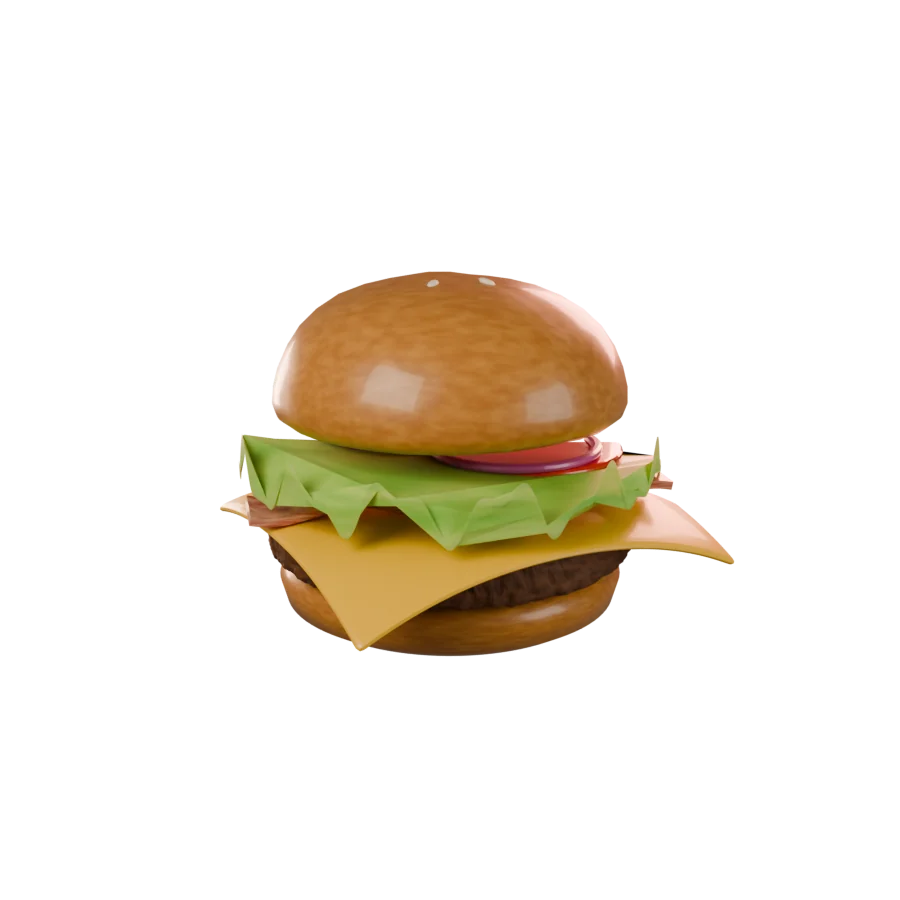
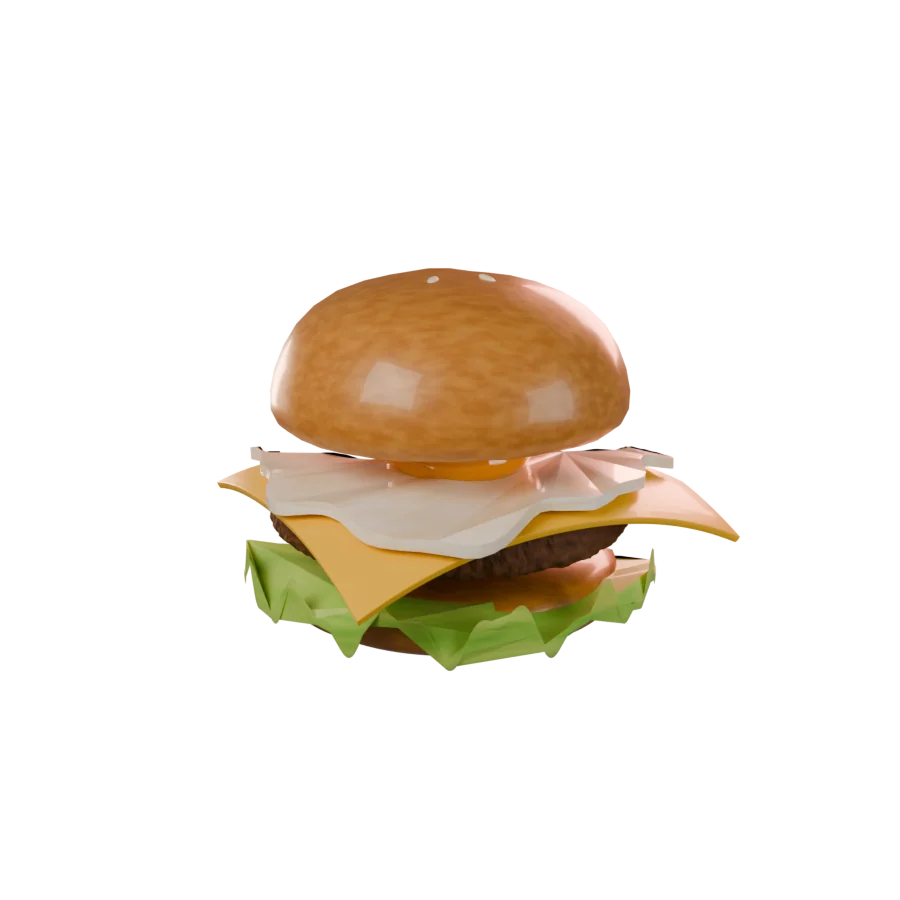
Cultura: the burger now matches theirs, with a fried egg
Rebuilt in Blender from their Instagram burger: handmade bun, fresh lettuce, 160g patty, melted cheese, a fried egg with a runny yolk, and a sesame bun. Bacon, tomato and onion are gone. The labels, layer spacing and step 4 (now The fried egg) follow the new layers in English and Portuguese.

Claude-Session: https://claude.ai/code/session_01LD4HJSaje7DgJNDvNHRX3H

Changed region(s): [[0.2489, 0.28, 0.84, 0.7467], [0.3111, 0.3422, 0.3422, 0.4356], [0.3422, 0.3111, 0.4044, 0.3422]]

diff --git a/cultura/index.html b/cultura/index.html
@@ -155,22 +155,18 @@ footer .wrap{display:flex;justify-content:space-between;flex-wrap:wrap;gap:12px}
       <div class="stage" id="stage" aria-hidden="true">
         <i class="shade"></i>
         <img class="ly" data-ly="bun_bottom" src="img/c/L_bun_bottom.webp" alt="">
+        <img class="ly" data-ly="lettuce" src="img/c/L_lettuce.webp" alt="">
         <img class="ly" data-ly="patty" src="img/c/L_patty.webp" alt="">
         <img class="ly" data-ly="cheese" src="img/c/L_cheese.webp" alt="">
-        <img class="ly" data-ly="bacon" src="img/c/L_bacon.webp" alt="">
-        <img class="ly" data-ly="tomato" src="img/c/L_tomato.webp" alt="">
-        <img class="ly" data-ly="onion" src="img/c/L_onion.webp" alt="">
-        <img class="ly" data-ly="lettuce" src="img/c/L_lettuce.webp" alt="">
+        <img class="ly" data-ly="egg" src="img/c/L_egg.webp" alt="">
         <img class="ly" data-ly="bun_top" src="img/c/L_bun_top.webp" alt="">
         <img class="ly whole" id="back" src="img/c/back.webp" alt="">
         <img class="ly whole" id="front" src="img/c/front.webp" alt="">
-        <span class="lbl" data-for="bun_top" data-i="g8">Handmade bun</span>
-        <span class="lbl l" data-for="lettuce" data-i="g7">Fresh lettuce</span>
-        <span class="lbl" data-for="onion" data-i="g6">Red onion</span>
-        <span class="lbl l" data-for="tomato" data-i="g5">Tomato</span>
-        <span class="lbl" data-for="bacon" data-i="g4">Crispy bacon</span>
-        <span class="lbl l" data-for="cheese" data-i="g3">Cheddar</span>
-        <span class="lbl" data-for="patty" data-i="g2">160g premium beef</span>
+        <span class="lbl" data-for="bun_top" data-i="g8">Sesame bun</span>
+        <span class="lbl l" data-for="egg" data-i="g4">Fried egg</span>
+        <span class="lbl" data-for="cheese" data-i="g3">Melted cheese</span>
+        <span class="lbl l" data-for="patty" data-i="g2">160g premium beef</span>
+        <span class="lbl" data-for="lettuce" data-i="g7">Fresh lettuce</span>
         <span class="lbl l" data-for="bun_bottom" data-i="g1">Handmade bun</span>
       </div>
 
@@ -201,7 +197,7 @@ footer .wrap{display:flex;justify-content:space-between;flex-wrap:wrap;gap:12px}
         </div>
 
         <div class="step" data-s="3">
-          <p class="k">🥬 <span data-i="s4k">Step 4 · The good stuff</span></p>
+          <p class="k">🍳 <span data-i="s4k">Step 4 · The fried egg</span></p>
           <h2 data-i="s4">Who's the table for?</h2>
           <label class="field"><span data-i="name">Your name</span><input id="name" autocomplete="name" maxlength="40"></label>
           <p class="k" style="margin:4px 0 8px;color:var(--ink)" data-i="occ">Anything to celebrate? (optional)</p>
@@ -271,18 +267,18 @@ $$('.rv').forEach(el => io.observe(el));
 /* words */
 const T = {
   en: { nav1: 'Book', nav2: 'Why us', nav3: 'Find us', rev: '· 6,000+ reviews', h1: 'Look inside. <em>Book your table.</em>', lead: 'Five taps and your table for tonight is ready, in the heart of Bairro Alto. Meanwhile, take a look inside what you are coming for.',
-    s1k: 'Step 1 · The bottom bun', s1: 'How many are coming?', s2k: 'Step 2 · 160g of beef', s2: 'Which day?', s3k: 'Step 3 · Melt the cheese', s3: 'What time?', s4k: 'Step 4 · The good stuff', s4: "Who's the table for?", name: 'Your name', occ: 'Anything to celebrate? (optional)', s5k: 'Step 5 · Close it up', s5: 'Your table is ready to order.',
+    s1k: 'Step 1 · The bottom bun', s1: 'How many are coming?', s2k: 'Step 2 · 160g of beef', s2: 'Which day?', s3k: 'Step 3 · Melt the cheese', s3: 'What time?', s4: "Who's the table for?", name: 'Your name', occ: 'Anything to celebrate? (optional)', s5k: 'Step 5 · Close it up', s5: 'Your table is ready to order.',
     next: 'Add the layer', back: '← Back', call: 'Call to confirm · 213 462 322', copy: 'Copy details', copied: 'Copied!', again: 'Start again', note: "Read us your ticket on the phone and we'll confirm the table. We're open every day until midnight.",
     lunch: 'Lunch', dinner: 'Dinner', late: 'Late', today: 'Today', tomorrow: 'Tomorrow', people: n => n === 1 ? '1 person' : n + ' people', group: 'Big group',
-    occs: ['Birthday 🎂', 'Date night ❤', 'Friends 🍻', 'Work 💼', 'First time in Lisbon ✈'], tk: 'Table ticket', tName: 'Name', tPeople: 'Guests', tDay: 'Day', tTime: 'Time', tOcc: 'Occasion', tTotal: 'Burgers to build', g1: 'Handmade bun', g2: '160g premium beef', g3: 'Cheddar', g4: 'Crispy bacon', g5: 'Tomato', g6: 'Red onion', g7: 'Fresh lettuce', g8: 'Handmade sesame bun',
+    occs: ['Birthday 🎂', 'Date night ❤', 'Friends 🍻', 'Work 💼', 'First time in Lisbon ✈'], tk: 'Table ticket', tName: 'Name', tPeople: 'Guests', tDay: 'Day', tTime: 'Time', tOcc: 'Occasion', tTotal: 'Burgers to build', g1: 'Handmade bun', g2: '160g premium beef', g3: 'Melted cheese', g4: 'Fried egg', g7: 'Fresh lettuce', g8: 'Sesame bun', s4k: 'Step 4 · The fried egg',
     fName: 'Name', fGuests: 'guests', w0: 'Why A Cultura', w1: "Lisbon's top rated, in the heart of Bairro Alto", w2: '6,053 Google reviews', w3: 'See Google reviews ↗',
     a1: 'New York chef technique', a1d: 'Recipe and method that make the difference.', a2: '160g premium beef', a2d: 'Selected Portuguese beef, juicy.', a3: 'Handmade buns', a3d: 'Baked for the burger, not the other way around.', a4: 'Open until midnight', a4d: 'Every day, from lunch until midnight.', a5: "Travelers' Choice 2025", a5d: 'Recognised by thousands of guests.',
     f0: 'Find us', f1: 'Come by, in Bairro Alto', f2: 'Hours', f3: 'Every day, from lunch until midnight', f4: 'Call to book your table', f5: 'Get directions (Google Maps) ↗', foot: 'Web design demo. The burger is an illustrative 3D render.', locale: 'en-GB' },
   pt: { nav1: 'Reservar', nav2: 'Porquê nós', nav3: 'Onde estamos', rev: '· +6.000 avaliações', h1: 'Espreita por dentro. <em>Reserva a tua mesa.</em>', lead: 'Cinco toques e a tua mesa para hoje está pronta, no coração do Bairro Alto. Entretanto, espreita por dentro o que te espera.',
-    s1k: 'Passo 1 · O pão de baixo', s1: 'Quantos vêm?', s2k: 'Passo 2 · 160g de carne', s2: 'Que dia?', s3k: 'Passo 3 · Derrete o queijo', s3: 'A que horas?', s4k: 'Passo 4 · O recheio', s4: 'Em nome de quem?', name: 'O teu nome', occ: 'Alguma coisa para celebrar? (opcional)', s5k: 'Passo 5 · Fecha-se o pão', s5: 'A tua mesa está pronta a pedir.',
+    s1k: 'Passo 1 · O pão de baixo', s1: 'Quantos vêm?', s2k: 'Passo 2 · 160g de carne', s2: 'Que dia?', s3k: 'Passo 3 · Derrete o queijo', s3: 'A que horas?', s4: 'Em nome de quem?', name: 'O teu nome', occ: 'Alguma coisa para celebrar? (opcional)', s5k: 'Passo 5 · Fecha-se o pão', s5: 'A tua mesa está pronta a pedir.',
     next: 'Juntar a camada', back: '← Voltar', call: 'Ligar para confirmar · 213 462 322', copy: 'Copiar detalhes', copied: 'Copiado!', again: 'Começar de novo', note: 'Liga-nos, lê-nos o talão e confirmamos a mesa. Estamos abertos todos os dias até à meia-noite.',
     lunch: 'Almoço', dinner: 'Jantar', late: 'Noite', today: 'Hoje', tomorrow: 'Amanhã', people: n => n === 1 ? '1 pessoa' : n + ' pessoas', group: 'Grupo grande',
-    occs: ['Aniversário 🎂', 'Jantar a dois ❤', 'Amigos 🍻', 'Trabalho 💼', 'Primeira vez em Lisboa ✈'], tk: 'Talão de mesa', tName: 'Nome', tPeople: 'Pessoas', tDay: 'Dia', tTime: 'Hora', tOcc: 'Ocasião', tTotal: 'Hambúrgueres a montar', g1: 'Pão artesanal', g2: '160g de carne premium', g3: 'Cheddar', g4: 'Bacon crocante', g5: 'Tomate', g6: 'Cebola roxa', g7: 'Alface fresca', g8: 'Pão com sésamo',
+    occs: ['Aniversário 🎂', 'Jantar a dois ❤', 'Amigos 🍻', 'Trabalho 💼', 'Primeira vez em Lisboa ✈'], tk: 'Talão de mesa', tName: 'Nome', tPeople: 'Pessoas', tDay: 'Dia', tTime: 'Hora', tOcc: 'Ocasião', tTotal: 'Hambúrgueres a montar', g1: 'Pão artesanal', g2: '160g de carne premium', g3: 'Queijo derretido', g4: 'Ovo estrelado', g7: 'Alface fresca', g8: 'Pão com sésamo', s4k: 'Passo 4 · O ovo estrelado',
     fName: 'Nome', fGuests: 'pessoas', w0: 'Porquê A Cultura', w1: 'O mais bem avaliado de Lisboa, no coração do Bairro Alto', w2: '6.053 avaliações no Google', w3: 'Ver avaliações no Google ↗',
     a1: 'Técnica de chef de Nova Iorque', a1d: 'Receita e método que fazem a diferença.', a2: '160g de carne premium', a2d: 'Carne portuguesa selecionada, suculenta.', a3: 'Pão artesanal', a3d: 'Feito para o hambúrguer, e não o contrário.', a4: 'Aberto até à meia-noite', a4d: 'Todos os dias, do almoço à meia-noite.', a5: "Travelers' Choice 2025", a5d: 'Reconhecido por milhares de clientes.',
     f0: 'Onde estamos', f1: 'Passa por cá, no Bairro Alto', f2: 'Horário', f3: 'Todos os dias, do almoço à meia-noite', f4: 'Liga para reservar a tua mesa', f5: 'Como chegar (Google Maps) ↗', foot: 'Demo de design web. O hambúrguer é um render 3D ilustrativo.', locale: 'pt-PT' }
@@ -290,7 +286,7 @@ const T = {
 let L = /^pt/i.test(navigator.language || '') ? 'pt' : 'en';
 
 /* booking state: each step adds layers to the burger */
-const LAYERS = [['bun_bottom'], ['patty'], ['cheese'], ['bacon', 'tomato', 'onion', 'lettuce'], ['bun_top']];
+const LAYERS = [['bun_bottom'], ['patty'], ['cheese'], ['egg'], ['bun_top']];
 const st = { people: 0, day: null, time: '', name: '', occ: -1 };
 let step = 0;
 const steps = $$('.step'), prog = [...$('#prog').children], stage = $('#stage');
@@ -368,9 +364,9 @@ function tick() {
 
 
 /* the burger next to the form: whole, then the front half slides away and the inside spreads out, then it closes again */
-const LAY = { bun_bottom: [.608, -1.7], patty: [.549, -1.0], cheese: [.531, -.4], bacon: [.516, .15], tomato: [.493, .7], onion: [.471, 1.25], lettuce: [.464, 1.8], bun_top: [.379, 2.6] };
-const LX = { bun_bottom: [.313, .687], patty: [.298, .701], cheese: [.217, .756], bacon: [.287, .73], tomato: [.31, .69], onion: [.357, .74], lettuce: [.268, .732], bun_top: [.304, .696] };
-const STEP_LAYER = ['bun_bottom', 'patty', 'cheese', 'lettuce', 'bun_top'];
+const LAY = { bun_bottom: [.608, -1.9], lettuce: [.573, -1.05], patty: [.524, -.15], cheese: [.508, .65], egg: [.484, 1.45], bun_top: [.381, 2.5] };
+const LX = { bun_bottom: [.313, .687], lettuce: [.273, .727], patty: [.3, .699], cheese: [.212, .759], egg: [.256, .756], bun_top: [.302, .698] };
+const STEP_LAYER = ['bun_bottom', 'patty', 'cheese', 'egg', 'bun_top'];
 const frontI = $('#front'), backI = $('#back'), cutL = $$('.stage .ly:not(.whole)'), lbls = $$('.lbl');
 const smooth = t => t < .5 ? 4 * t * t * t : 1 - Math.pow(-2 * t + 2, 3) / 2, seg = (t, a, b) => Math.min(1, Math.max(0, (t - a) / (b - a)));
 const t0 = performance.now(), CYCLE = 11;
